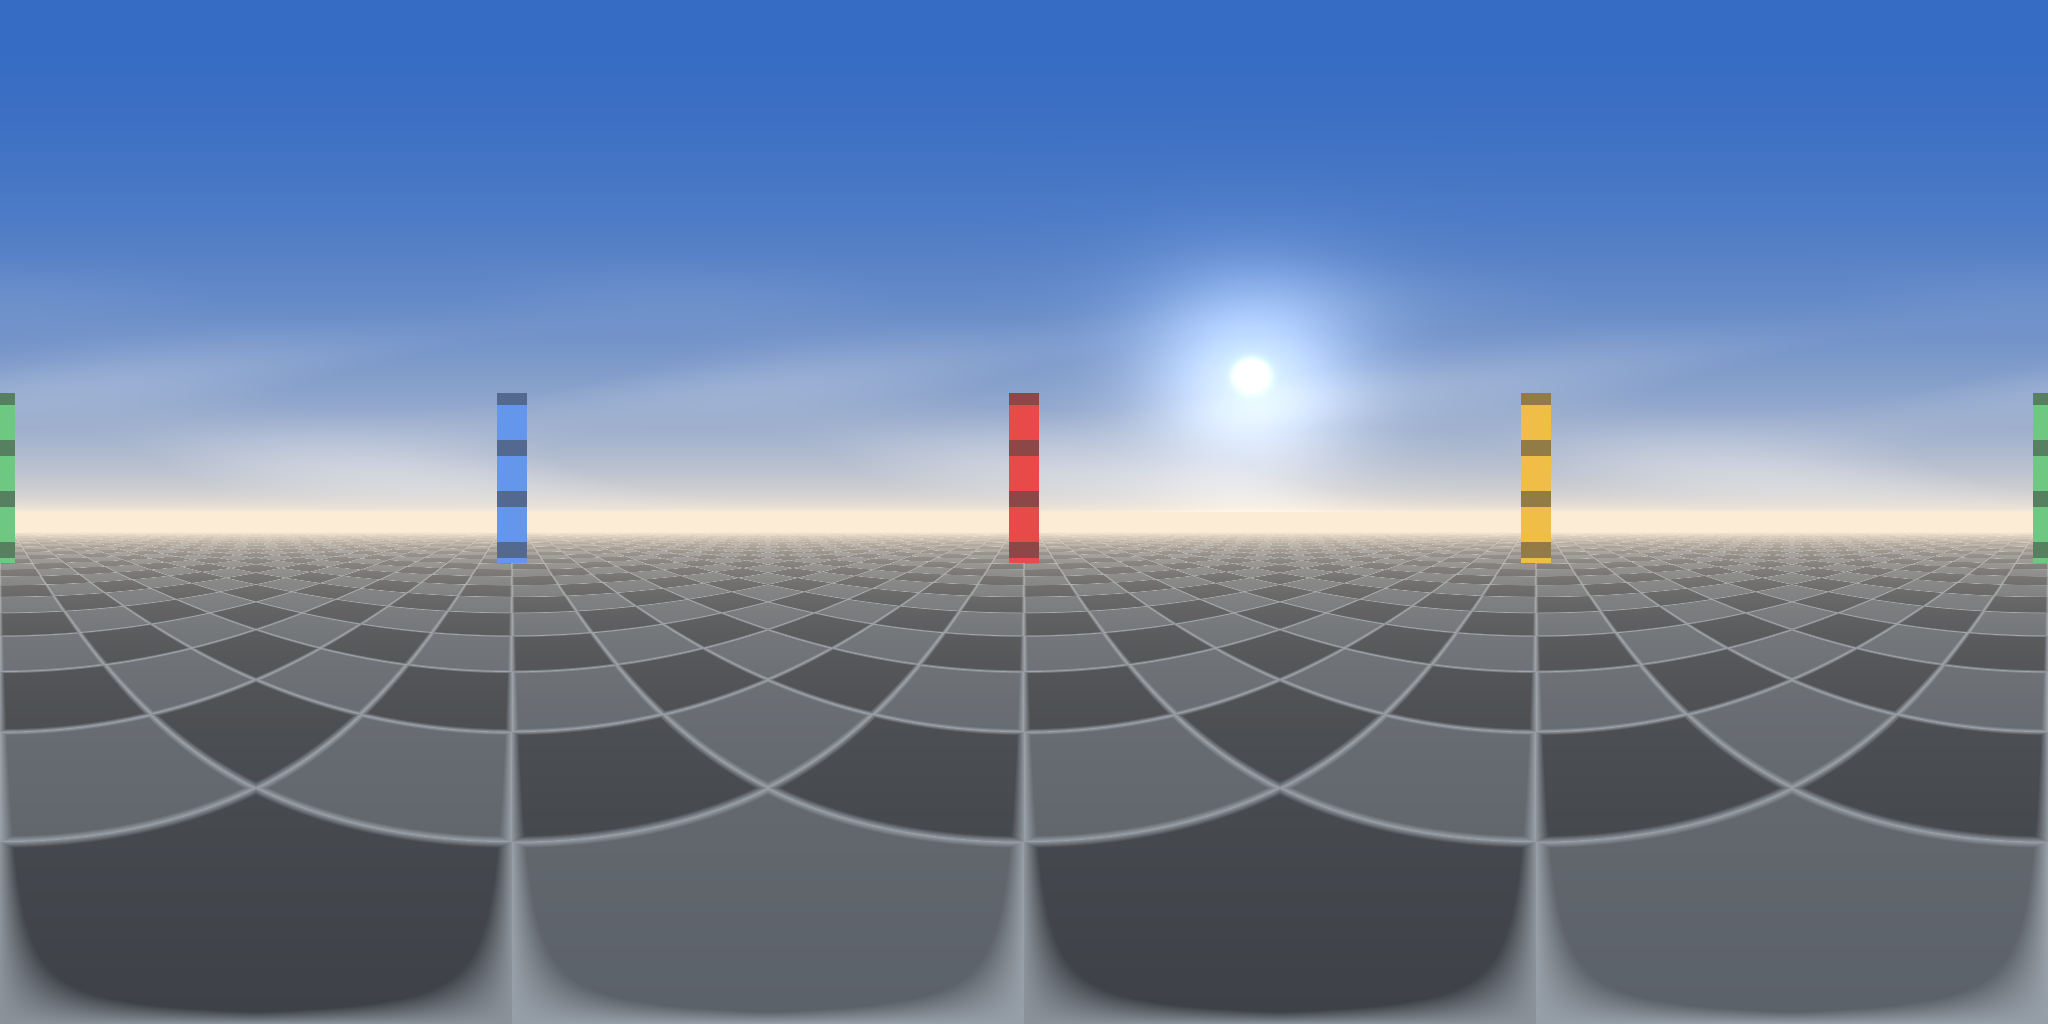
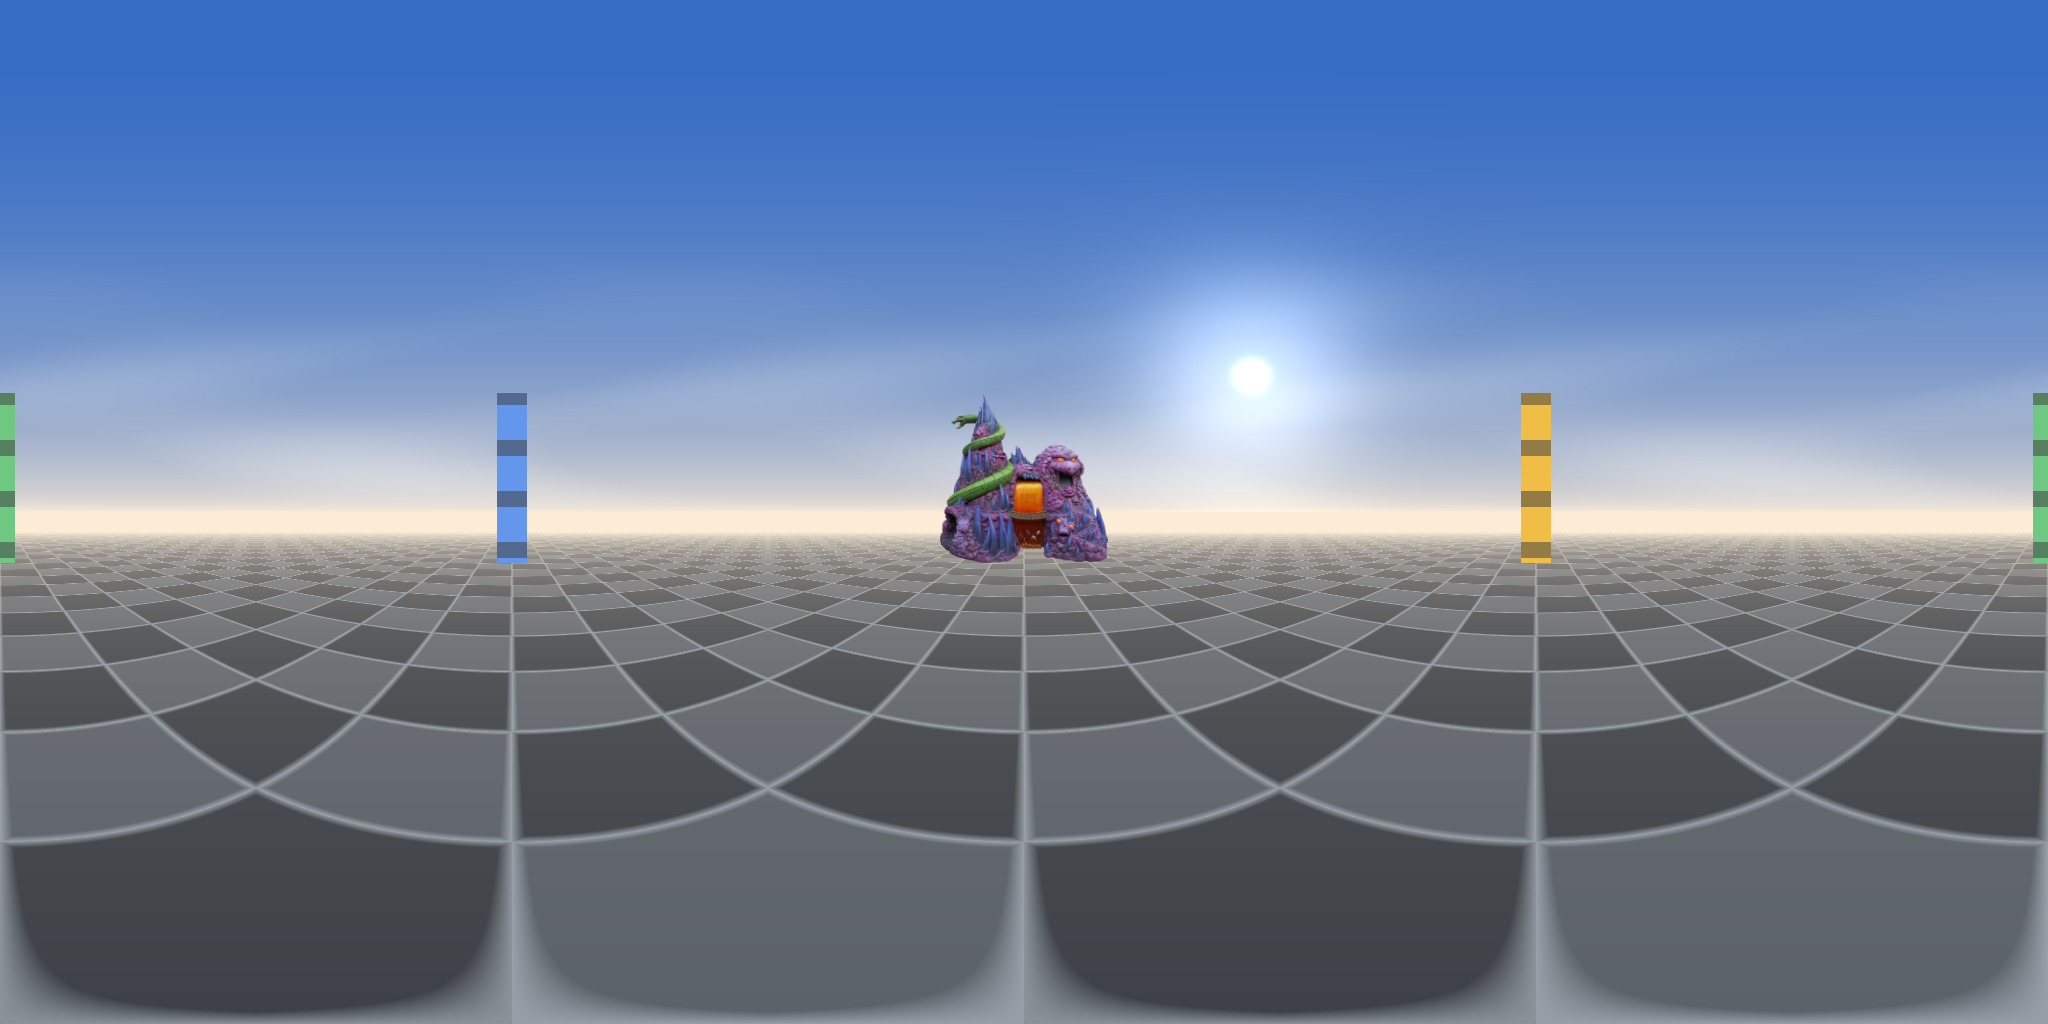
Snake Mountain stands where the north post was
Replaces the red cardinal post at yaw 0 with a landmark: an Icon Heroes Snake
Mountain photo, background knocked out and baked into pano-hub.png.

Baked rather than added as a prop, per Scott — this is scenery, not something
you click. make_panos.py grows a BAKED table and a bake() that paints a cutout
as a plane tangent to the sphere facing its middle, which is the same geometry
the viewer uses to project a prop: undistorted head on, and curving into the
equirectangular grid like the rest of the scene. It takes prop-style angles,
so yaw/pitch aim at the bottom-centre where it meets the ground.

Two things that bite if you write this from scratch: sampling has to be
premultiplied or the transparent surround bleeds a pale fringe into every
edge, and the cutout needs area-downsampling to its footprint first, since
dropping a 900px photo straight into a ~170px-wide patch of sphere aliases.

Baking happens at generate time, from images/bake-*.png, so ./make_panos.py hub
reproduces it — editing the panorama by hand would be silently undone on the
next regenerate. Verified idempotent, and void/hall still match byte for byte.

The tradeoff is resolution: baked art can't drift out of scale and costs
nothing at runtime, but it is stuck at the panorama's 2048px and goes soft if
you zoom right in. Fine at the default fov.

The photo is Icon Heroes', the design is Mattel's — recorded in CREDITS.md as
explicitly not free, placeholder art to swap before this counts as finished.

Changed region(s): [[0.4375, 0.375, 0.5625, 0.5625]]

diff --git a/make_panos.py b/make_panos.py
@@ -18,6 +18,8 @@ import zlib
 
 import numpy as np
 
+from make_sprites import read_png_rgba
+
 W, H = 2048, 1024
 GROUND = -1.6          # eye height above the floor plane, in metres-ish
 
@@ -103,9 +105,11 @@ def hub():
 
     img = np.where((dy > 0.0)[..., None], sky, ground)
 
-    # Cardinal posts, so orientation stays unambiguous while testing.
+    # Cardinal posts, so orientation stays unambiguous while testing. North has
+    # no post any more — Snake Mountain is baked in there instead (see BAKED),
+    # and it marks north far better than a striped pole did.
     lon_deg, lat_deg = np.degrees(lon) % 360.0, np.degrees(lat)
-    for m_lon, color in [(0.0, (232, 74, 74)), (90.0, (240, 190, 70)),
+    for m_lon, color in [(90.0, (240, 190, 70)),
                          (180.0, (110, 200, 130)), (270.0, (100, 150, 235))]:
         delta = np.abs((lon_deg - m_lon + 180.0) % 360.0 - 180.0)
         post = (delta < 2.6) & (lat_deg > -9.0) & (lat_deg < 21.0)
@@ -221,6 +225,91 @@ SCENES = {"hub": hub, "void": void, "hall": hall}
 
 
 # ---------------------------------------------------------------------------
+# Baked-in art: real images painted into the procedural sphere.
+# ---------------------------------------------------------------------------
+# Scenery that isn't worth generating and shouldn't be a prop — a prop is a
+# thing you click, this is just part of the view. Baking keeps it in the
+# panorama, so it costs nothing at runtime and can't drift out of scale.
+# Angles match a prop's: yaw/pitch aim at the bottom-centre where it meets the
+# ground, height is its angular height in degrees.
+BAKED = {
+    "hub": [("images/bake-snake-mountain.png", 0.0, -9.0, 30.0)],   # due north
+}
+
+
+def _box_down(arr, n_out, axis):
+    """Area-average `arr` down to n_out samples along `axis`."""
+    n_in = arr.shape[axis]
+    if n_out >= n_in:
+        return arr
+    edges = np.arange(n_out) * n_in // n_out
+    total = np.add.reduceat(arr, edges, axis=axis)
+    count = np.diff(np.append(edges, n_in)).astype(np.float64)
+    shape = [1] * arr.ndim
+    shape[axis] = n_out
+    return total / count.reshape(shape)
+
+
+def bake(img, path, yaw_deg, pitch_deg, height_deg):
+    """Paint a transparent cutout into the sphere as an upright flat billboard.
+
+    The image is treated as a plane tangent to the sphere and facing the middle
+    of it — the same geometry the viewer uses to project a prop — so it looks
+    undistorted head on and bends into the equirectangular grid the way real
+    scenery does. Sampling is premultiplied throughout, or the transparent
+    surround would bleed a pale fringe into every edge.
+    """
+    art = read_png_rgba(path).astype(np.float64)
+    alpha = art[:, :, 3:4] / 255.0
+    art = np.concatenate([art[:, :, :3] * alpha, alpha], axis=2)   # premultiplied
+
+    half_v = np.tan(np.radians(height_deg) / 2.0)
+    half_u = half_v * (art.shape[1] / art.shape[0])
+
+    # Shrink to roughly the footprint it will occupy before sampling: dropping a
+    # 900px photo straight into a ~170px-wide patch of sphere aliases badly.
+    want_h = max(1, int(round(height_deg / 180.0 * H)))
+    want_w = max(1, int(round(np.degrees(2 * np.arctan(half_u)) / 360.0 * W)))
+    art = _box_down(_box_down(art, want_h, 0), want_w, 1)
+    ah, aw = art.shape[:2]
+
+    _, _, dx, dy, dz = directions()
+    c_lat, c_lon = np.radians(pitch_deg + height_deg / 2.0), np.radians(yaw_deg)
+    c = np.array([np.cos(c_lat) * np.sin(c_lon), np.sin(c_lat),
+                  -np.cos(c_lat) * np.cos(c_lon)])
+    right = np.cross(c, [0.0, 1.0, 0.0])
+    right /= np.linalg.norm(right)
+    up = np.cross(right, c)
+
+    # Where each ray meets that tangent plane, in the plane's own coordinates.
+    denom = dx * c[0] + dy * c[1] + dz * c[2]
+    front = denom > 1e-6
+    safe = np.where(front, denom, 1.0)
+    hx, hy, hz = dx / safe, dy / safe, dz / safe
+    u = hx * right[0] + hy * right[1] + hz * right[2]
+    v = hx * up[0] + hy * up[1] + hz * up[2]
+
+    sx = (u / half_u * 0.5 + 0.5) * (aw - 1)
+    sy = (0.5 - v / half_v * 0.5) * (ah - 1)
+    hit = front & (sx >= 0) & (sx <= aw - 1) & (sy >= 0) & (sy <= ah - 1)
+    if not hit.any():
+        return img
+
+    ys, xs = np.nonzero(hit)
+    fx, fy = sx[hit], sy[hit]
+    x0, y0 = np.floor(fx).astype(int), np.floor(fy).astype(int)
+    x1, y1 = np.minimum(x0 + 1, aw - 1), np.minimum(y0 + 1, ah - 1)
+    tx, ty = (fx - x0)[:, None], (fy - y0)[:, None]
+    top = art[y0, x0] * (1 - tx) + art[y0, x1] * tx
+    bot = art[y1, x0] * (1 - tx) + art[y1, x1] * tx
+    samp = top * (1 - ty) + bot * ty
+
+    a = samp[:, 3:4]
+    img[ys, xs] = img[ys, xs] * (1.0 - a) + samp[:, :3]
+    return img
+
+
+# ---------------------------------------------------------------------------
 
 def write_png(path: str, rgb: np.ndarray) -> None:
     h, w, _ = rgb.shape
@@ -254,7 +343,11 @@ def main(argv) -> int:
 
     for name in wanted:
         out = f"images/pano-{name}.png"
-        write_png(out, np.clip(SCENES[name](), 0.0, 255.0).astype(np.uint8))
+        img = SCENES[name]()
+        for art, yaw, pitch, height in BAKED.get(name, []):
+            img = bake(img, art, yaw, pitch, height)
+            print(f"  baked {art} at yaw {yaw:g}°, {height:g}° tall")
+        write_png(out, np.clip(img, 0.0, 255.0).astype(np.uint8))
         print(f"wrote {out} ({W}x{H})")
     return 0
 

diff --git a/CLAUDE.md b/CLAUDE.md
@@ -17,6 +17,7 @@ clicking hotspots painted into the space.
 - `editor.html` — the room editor (see below). Not part of the site graph.
 - `images/pano-*.png` — one panorama per room. Placeholders for now.
 - `images/sprite-*.png` — transparent prop images (see Props below).
+- `images/bake-*.png` — cutouts baked into a panorama (see Baking below).
 - `images/CREDITS.md` — where non-generated art came from, and its license.
 - `make_panos.py` — regenerates those placeholder panoramas.
 - `make_sprites.py` — regenerates the placeholder prop sprites.
@@ -208,8 +209,10 @@ and check the right thing is centered:
       --window-size=900,560 --virtual-time-budget=6000 \
       --screenshot=out.png "http://localhost:8777/?yaw=90&drift=0"
 
-In `pano-hub.png` the cardinal posts are N=red, E=yellow, S=green, W=blue, so
-a screenshot immediately shows whether orientation is right. Note that
+In `pano-hub.png` the cardinal markers are N=Snake Mountain, E=yellow post,
+S=green post, W=blue post, so a screenshot immediately shows whether
+orientation is right. (North used to be a red post; the baked-in mountain
+replaced it.) Note that
 `requestAnimationFrame` is throttled under headless virtual time, so the
 on-screen readout won't update — screenshot the rendered frame instead of
 scraping the DOM.
@@ -234,6 +237,37 @@ template for code-generated panoramas. `./make_panos.py void` rebuilds one.
 
 These are stand-ins. Real art goes in the same place — drop a 2:1 image in
 `images/` and point a room's `data-pano` at it.
+
+### Baking scenery into a panorama
+
+Some things belong in the view rather than on top of it — a landmark on the
+horizon, not a thing you click. Those get **baked** into the sphere by
+`make_panos.py`, listed in `BAKED` by room:
+
+```python
+BAKED = {
+    "hub": [("images/bake-snake-mountain.png", 0.0, -9.0, 30.0)],   # due north
+}
+```
+
+The angles read like a prop's: yaw/pitch aim at the bottom-centre where it meets
+the ground, and height is its angular height in degrees. `bake()` paints the
+cutout as a plane tangent to the sphere facing the middle of it — the same
+geometry the viewer uses to project a prop — so it looks undistorted head on and
+curves into the equirectangular grid the way the rest of the scene does.
+Sampling is premultiplied, or the transparent surround bleeds a pale fringe into
+every edge, and the cutout is area-downsampled to its footprint first, because
+dropping a 900px photo straight into a ~170px-wide patch of sphere aliases
+badly.
+
+**Baked vs. prop.** Baked art costs nothing at runtime and cannot drift out of
+scale, but it is stuck at the panorama's resolution — soft if you zoom right in
+— and it can't be clicked. A prop stays sharp at any zoom and opens a dialog.
+Landmark → bake; anything you interact with → prop (`add_prop.py`).
+
+Keep the source cutout in `images/bake-*.png`: baking happens at generate time,
+so `./make_panos.py hub` must be able to redo it. Editing `pano-hub.png` by hand
+would be silently undone the next time anyone regenerates.
 
 ## Legacy: the Decker deck
 

diff --git a/images/CREDITS.md b/images/CREDITS.md
@@ -13,3 +13,16 @@ attribution is required; this note is for our own bookkeeping.
 Processed for use as a prop: rendered from the source SVG at 1200px tall
 (`rsvg-convert -h 1200`), then cropped to its alpha bounding box → 332×1172, so
 the bottom edge is the figure's feet and the prop anchor lands on the ground.
+
+## `bake-snake-mountain.png`
+
+Product photograph of the Icon Heroes *Snake Mountain* statue (Masters of the
+Universe) — https://www.iconheroes.com/, source image `6345568_orig.jpg`.
+
+**Not a free license.** The photo is Icon Heroes'; the design is Mattel's. It is
+in here as placeholder art the way the procedural panoramas are — fine while
+this is a personal sketch, but it is not cleared for redistribution, so swap it
+before treating the north landmark as finished.
+
+Background knocked out (white flood-fill, tolerance 20) and cropped to alpha →
+894×900. Baked into `pano-hub.png` at yaw 0°, 30° tall, by `make_panos.py`.
